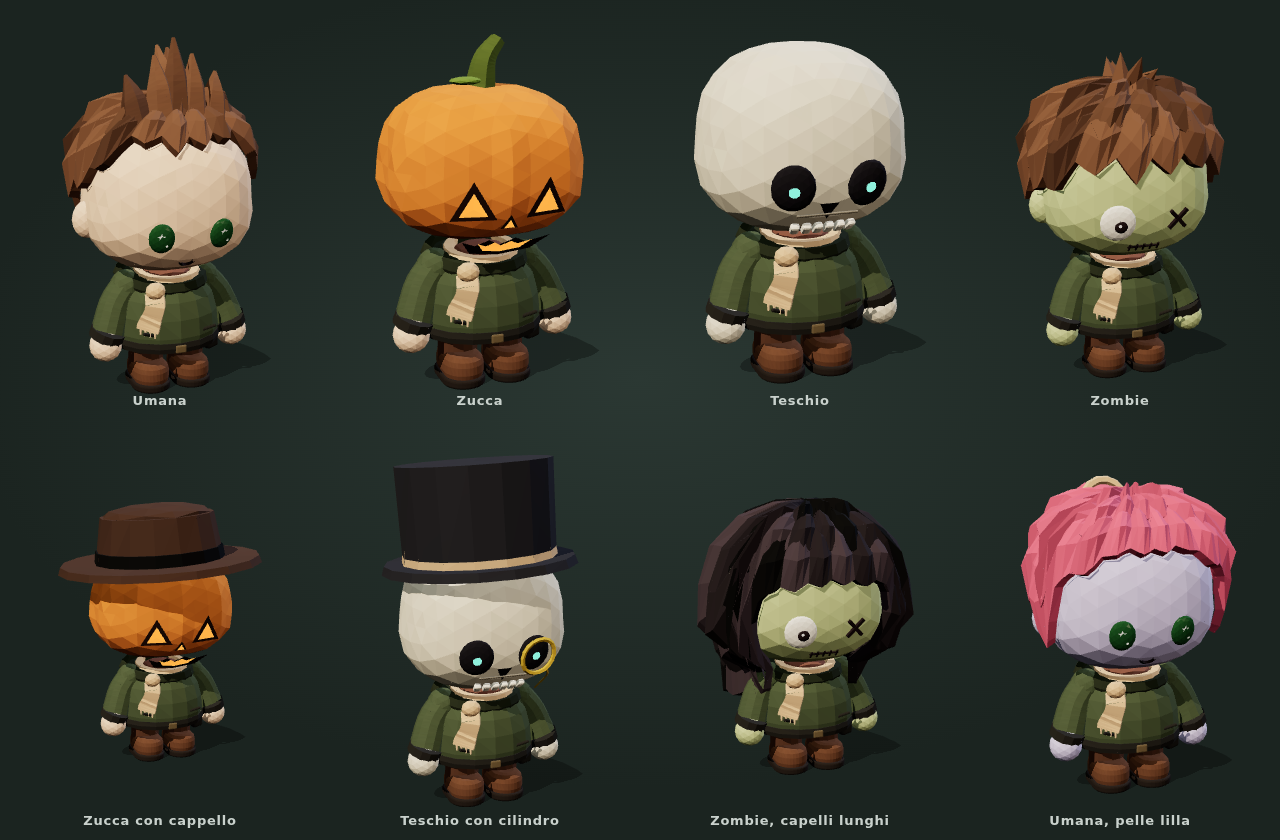
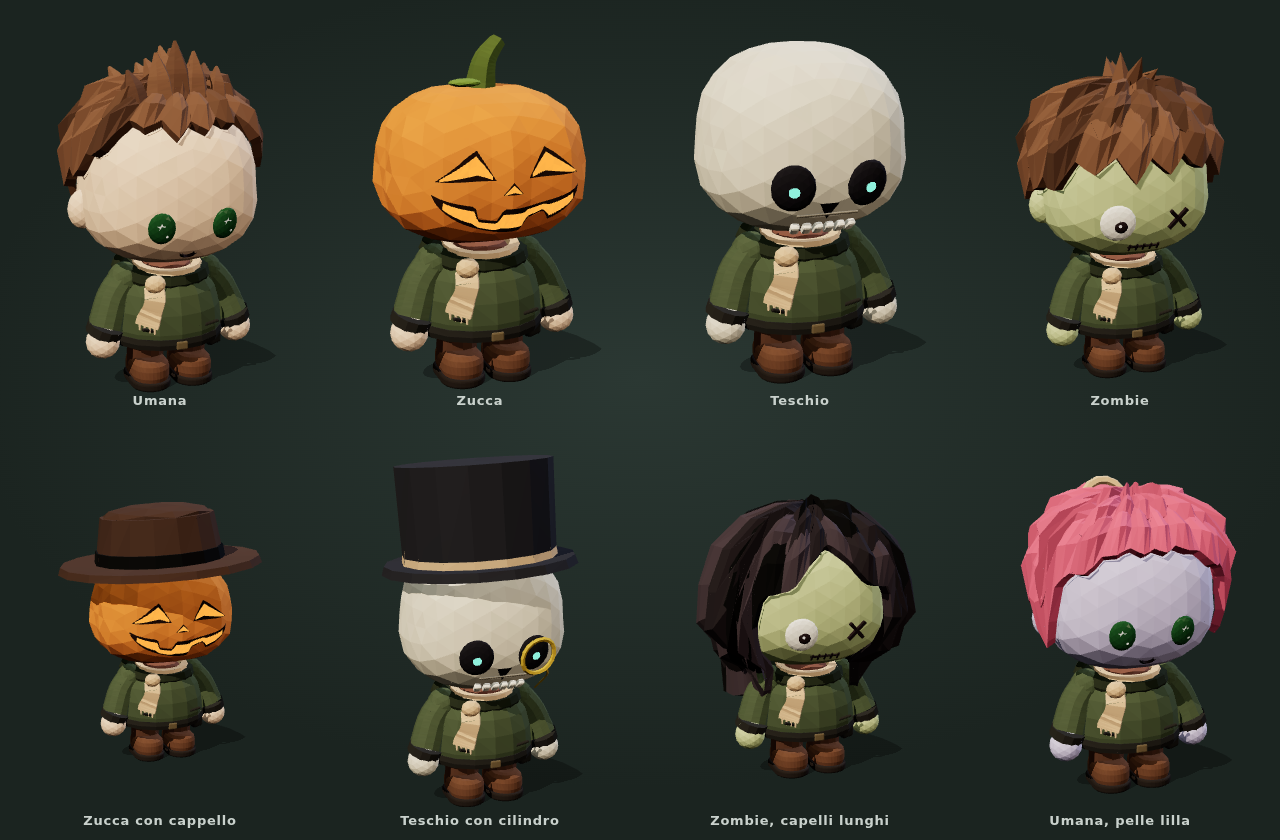
Anteprima teste: zucca con il ghigno intagliato che segue la buccia
Intagli (occhi, naso, bocca a mezzaluna con due denti) proiettati sulla
superficie della zucca invece che piatti; faccia al centro della zucca,
che ora poggia sul collo senza lasciare il buco sotto.

Claude-Session: https://claude.ai/code/session_01U6u5RojYrwYjZd8sSRU7em

diff --git a/Prototype-3d/src/render/lowpoly/v2/custode.ts b/Prototype-3d/src/render/lowpoly/v2/custode.ts
@@ -364,36 +364,68 @@ const hairTip = (th: number) => HAIR_TIP(absDeg(th), signedDeg(th));
 // (lungo la mandibola) e solo vicino all'orecchio sale come basetta fino ai capelli
 const beardTop = (thDeg: number) => { const a = Math.abs(thDeg); return a < 70 ? lerp(-53, -48, smooth(0, 70, a)) : lerp(-50, 6, smooth(70, 88, a)); };
 
-/** Zucca: più larga e schiacciata, a spicchi, con il picciolo; faccia intagliata che brilla. */
+/** Superficie della zucca lungo una direzione dal centro: più larga e schiacciata, a spicchi. */
+function pumpkinAt(dir: THREE.Vector3): THREE.Vector3 {
+  const v = dir.clone().normalize();
+  const p = surfaceAlong(v).sub(C);
+  const lon = Math.atan2(v.x, v.z), lat = Math.asin(THREE.MathUtils.clamp(v.y, -1, 1));
+  const rib = 1 - 0.055 * (0.5 - 0.5 * Math.cos(lon * 10)) * Math.pow(Math.cos(lat), 0.6); // solchi tra gli spicchi
+  p.multiply(new THREE.Vector3(1.07 * rib, 0.9 - 0.06 * Math.pow(Math.abs(v.y), 6), 1.05 * rib)); // un po' schiacciata, sommità e base rientranti
+  p.y -= 0.1 * R.y; // schiacciata verso il basso: poggia sul collo come la testa (niente buco sotto)
+  return p.add(C);
+}
+
+/**
+ * Intaglio sulla zucca: la regione tra `bot(u)` e `top(u)` (u da -1 a 1, x = cx + u·w)
+ * diventa una griglia proiettata sulla buccia, così segue la curva anche se è larga.
+ * Bordo scuro, e dentro la luce della candela un po' più rientrata.
+ */
+function carve(lp: LP, cx: number, w: number, top: (u: number) => number, bot: (u: number) => number, nu = 8) {
+  const at = (x: number, y: number, out: number) => {
+    const d = new THREE.Vector3(x / R.x, (y - C.y) / R.y, 0);
+    d.z = Math.sqrt(Math.max(0.05, 1 - d.x * d.x - d.y * d.y));
+    const p = pumpkinAt(d);
+    return p.addScaledVector(p.clone().sub(C).normalize(), out);
+  };
+  const grid = (u0: number, u1: number, v0: number, v1: number, out: number, color: string, o: LPOpts) => {
+    const t = new Tris();
+    const P: THREE.Vector3[][] = [];
+    for (let i = 0; i <= nu; i++) {
+      const u = lerp(u0, u1, i / nu);
+      P.push([0, 1, 2].map((j) => at(cx + u * w, lerp(bot(u), top(u), lerp(v0, v1, j / 2)), out)));
+    }
+    for (let i = 0; i < nu; i++) for (let j = 0; j < 2; j++) t.quad(P[i][j], P[i + 1][j], P[i + 1][j + 1], P[i][j + 1], P[i][j].clone().sub(C).normalize());
+    lp.add(t.geo(), color, o);
+  };
+  grid(-1, 1, 0, 1, 0.004, '#2a1206', O);
+  grid(-0.86, 0.86, 0.2, 0.8, 0.006, '#ffb54a', { ...O, bucket: 'glow' });
+}
+
+/** Zucca: a spicchi, con il picciolo; faccia intagliata che brilla. */
 function pumpkin(lp: LP) {
   const g = new THREE.IcosahedronGeometry(1, 4);
   const pos = g.attributes.position as THREE.BufferAttribute;
   const v = new THREE.Vector3();
   for (let i = 0; i < pos.count; i++) {
-    v.fromBufferAttribute(pos, i).normalize();
-    const p = surfaceAlong(v).sub(C);
-    const lon = Math.atan2(v.x, v.z), lat = Math.asin(THREE.MathUtils.clamp(v.y, -1, 1));
-    const rib = 1 - 0.055 * (0.5 - 0.5 * Math.cos(lon * 10)) * Math.pow(Math.cos(lat), 0.6); // solchi tra gli spicchi
-    p.multiply(new THREE.Vector3(1.07 * rib, 0.9 - 0.06 * Math.pow(Math.abs(v.y), 6), 1.05 * rib)); // un po' schiacciata, sommità e base rientranti
-    pos.setXYZ(i, C.x + p.x, C.y + p.y, C.z + p.z);
+    const p = pumpkinAt(v.fromBufferAttribute(pos, i));
+    pos.setXYZ(i, p.x, p.y, p.z);
   }
   lp.add(g, '#e0832f', { ...O, ao: 0.08, vary: 0.05 });
   if (hatPh() >= 89) { // picciolo (sotto un cappello non c'è posto)
-    const b = new THREE.Vector3(C.x, C.y + R.y * 0.84, C.z);
+    const b = new THREE.Vector3(C.x, C.y + R.y * 0.72, C.z); // sulla sommità (rientrante)
     lp.add(taperTube([b, b.clone().add(new THREE.Vector3(0.015, 0.08, 0)), b.clone().add(new THREE.Vector3(0.06, 0.13, -0.02))], [0.045, 0.034, 0.024], 6), '#5a6a2c', O);
     lp.blob(b.x - 0.05, b.y + 0.02, b.z + 0.02, 0.05, 0.012, 0.03, '#6f8a33', { ...O, detail: 1 } as LPOpts); // fogliolina
   }
   if (X.bare) return;
-  const carve = (x: number, y: number, geo: THREE.BufferGeometry) => onSkin(lp, headFront(x, y), 0.012, 0, (q) => {
-    q.add(geo.clone(), '#2a1206', O);
-    q.add(geo.clone().scale(0.62, 0.62, 1).translate(0, -0.003, 0.002), '#ffb54a', { ...O, bucket: 'glow' });
-  });
-  for (const s of [-1, 1]) carve(s * EYE_X * 1.05, EYE_Y + 0.01, new THREE.CircleGeometry(0.075, 3).rotateZ(Math.PI / 2));
-  carve(0, 0.665, new THREE.CircleGeometry(0.03, 3).rotateZ(Math.PI / 2));
-  const m = new THREE.Shape();
-  const pts: Array<[number, number]> = [[-0.13, 0.03], [-0.085, 0], [-0.05, 0.03], [-0.012, -0.004], [0.028, 0.03], [0.068, 0], [0.13, 0.03], [0.09, -0.045], [0, -0.068], [-0.09, -0.045]];
-  m.moveTo(...pts[0]); for (const p of pts.slice(1)) m.lineTo(...p); m.closePath();
-  carve(0, 0.6, new THREE.ShapeGeometry(m));
+  // la faccia sta al centro della zucca (più in alto degli occhi umani)
+  // occhi: triangoli con la punta in su, un po' inclinati verso il naso
+  const tri = (a: number) => (u: number) => (u < a ? (u + 1) / (a + 1) : (1 - u) / (1 - a)); // 0 ai lati, 1 sulla punta (in u = a)
+  for (const s of [-1, 1]) { const t = tri(-s * 0.3); carve(lp, s * 0.115, 0.068, (u) => 0.795 + 0.085 * t(u), () => 0.795, 6); }
+  carve(lp, 0, 0.028, (u) => 0.752 + 0.036 * tri(0)(u), () => 0.752, 4); // naso
+  // bocca: un sorriso largo a mezzaluna, con un dente che scende dall'alto e uno che sale dal basso
+  const y0 = 0.712;
+  const tooth = (u: number, at: number) => smooth(0.2, 0.12, Math.abs(u - at)) * 0.034;
+  carve(lp, 0, 0.19, (u) => y0 + 0.05 * u * u - tooth(u, -0.32), (u) => y0 + 0.05 * u * u - 0.07 * Math.pow(1 - u * u, 0.7) + tooth(u, 0.36), 40);
 }
 
 function head(lp: LP) {
